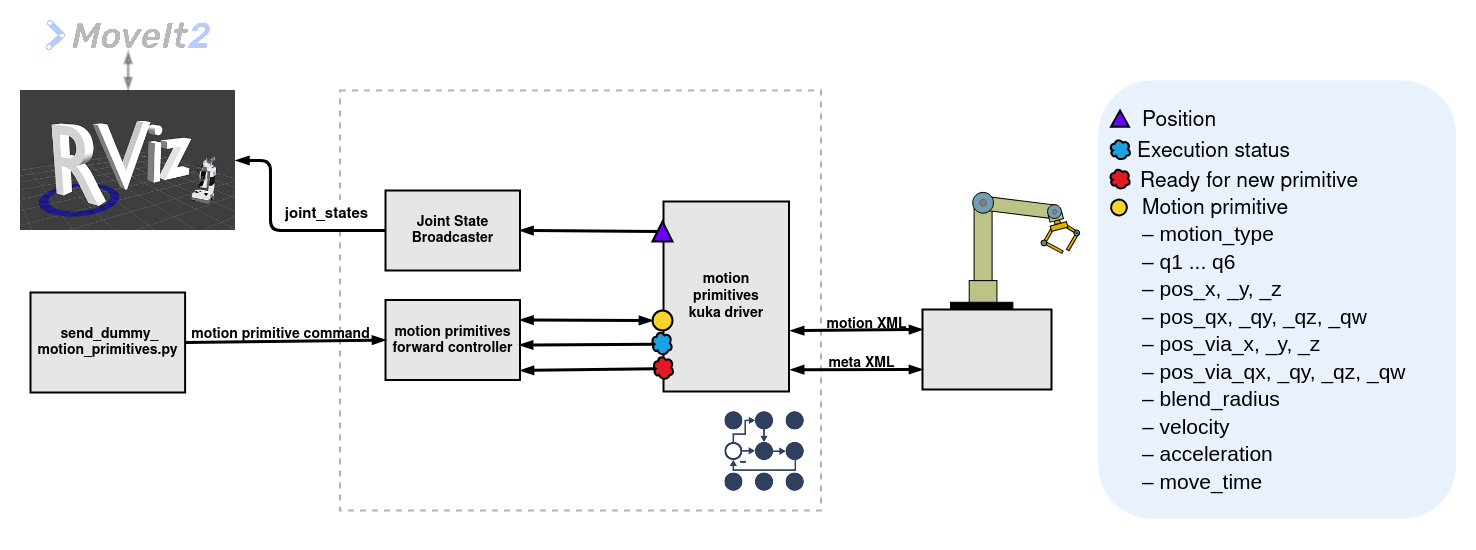
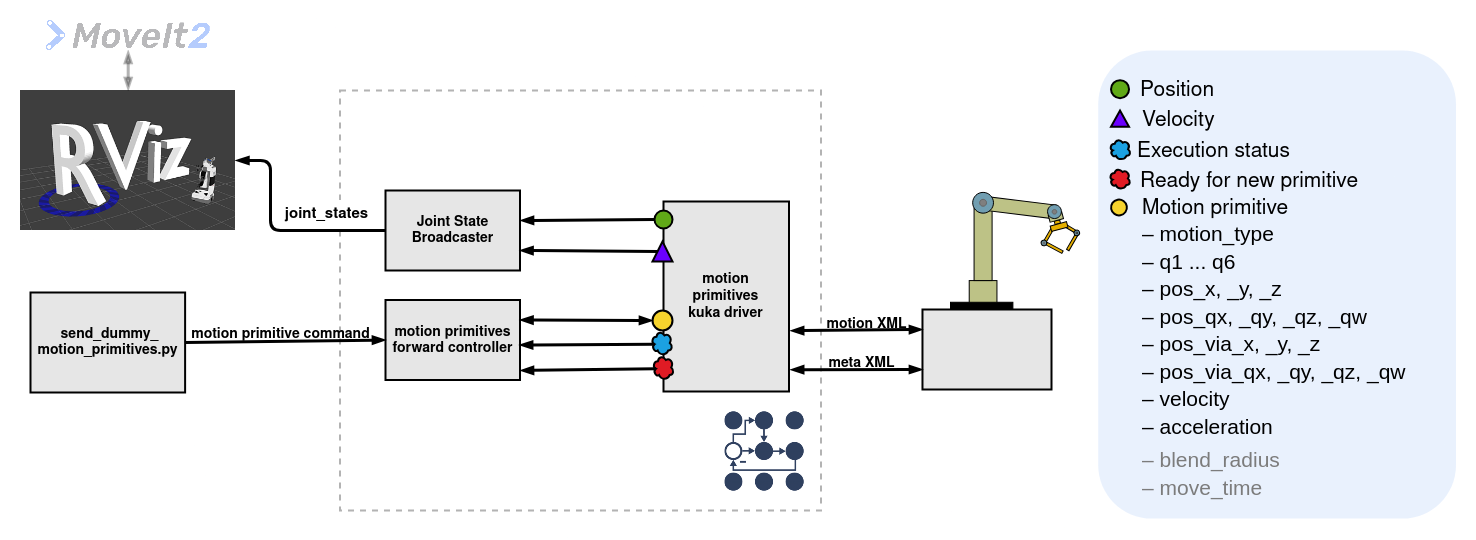
Added documentation to readme and added tutorial on how to setup the kuka robot

diff --git a/kuka_ros2_control_support/launch/motion_primitives_bringup.launch.py b/kuka_ros2_control_support/launch/motion_primitives_bringup.launch.py
@@ -29,6 +29,9 @@
 #  LIABILITY, OR TORT (INCLUDING NEGLIGENCE OR OTHERWISE) ARISING IN
 #  ANY WAY OUT OF THE USE OF THIS SOFTWARE, EVEN IF ADVISED OF THE
 #  POSSIBILITY OF SUCH DAMAGE.
+#
+# 2025 Modifications for motion primitives driver and controller launch
+# - Mathias Fuhrer
 
 from launch import LaunchDescription
 from launch.actions import DeclareLaunchArgument, ExecuteProcess

diff --git a/kuka_eki_motion_primitives_hw_interface/README.md b/kuka_eki_motion_primitives_hw_interface/README.md
@@ -1,34 +1,112 @@
 kuka_eki_motion_primitives_hw_interface
 ==========================================
 
-Driver package to control kuka robot using motion primitives like PTP, LIN and CIRC
+Hardware interface for executing motion primitives on a KUKA robot using the ROS 2 control framework. It allows the controller to execute linear (LINEAR_CARTESIAN/ LIN/ MOVEL), circular (CIRCULAR_CARTESIAN/ CIRC/ MOVEC) and joint-based (LINEAR_JOINT/ PTP/ MOVEJ) motion commands.
 
-![Licence](https://img.shields.io/badge/License-BSD-3-Clause-blue.svg)
+[![Licence](https://img.shields.io/badge/License-Apache-2.0-blue.svg)](https://opensource.org/licenses/Apache-2.0)
 
-# Documentation
-## ROS2 Implementation
-TODO(mathias31415) explain how the ros2 implementation works
-![img](doc/ros2_control_motion_primitives_kuka.drawio.png)
+# Demo Video
+[![Play Video](TODO preview img)](TODO video link)
 
-## KRL Implementation
-TODO(mathias31415) explain how the krl implementation works
+# Related packages/ repos
+- [industrial_robot_motion_interfaces (with additional helper types for stop and motion sequence)](https://github.com/StoglRobotics-forks/industrial_robot_motion_interfaces/tree/helper-types)
+- [ros2_controllers with motion_primitives_forward_controller](https://github.com/StoglRobotics-forks/ros2_controllers/tree/motion_primitive_forward_controller/motion_primitives_forward_controller)
+- [kuka_experimental with motion_primitive_kuka_driver](https://github.com/StoglRobotics-forks/kuka_experimental/tree/hka_motion_primitive_kuka_driver)
 
-## KRL Files
-TODO(mathias31415) write instruction on how to place the KRL files in WorkVisual (Move the instruction to the krl folder)
 
-If [Multi Submitinterpreter](https://www.kuka.com/en-us/services/downloads?terms=Language%3Aen%3A1&q=MultiSubmit) is installed the line `DECL PRO_IO_T $PRO_I_O_PROC_ID3={MODULE[] "/R1/AIP_META_EKI()",COLD_BOOT_RUN #ON}` in `$custom.dat` can be modified like this. The `sps.sub` and `meta_eki.sub` will run in parrallel. Otherwise replacing `"/R1/SPS()"` with `"/R1/AIP_META_EKI()"` in line `DECL PRO_IO_T $PRO_I_O_SYS={MODULE[] "/R1/AIP_META_EKI()",COLD_BOOT_RUN #ON}` works just fine.
+# Architecture
 
-## EKI TCP connection
-To ensure the TCP connection is closed properly, the client needs to disconnect first [source](https://youtu.be/Ne13sBHPGv4?t=863), so the ROS2 side needs to be stopped first. When client disconnects, the `$flag[1]` and `$flag[2]` are set to false (defined in the xml files). This triggers the interrupt to call the reset_interface() and reset_meta_interface() functions. 
-```
-global interrupt decl 15 when $flag[1] == false do reset_interface()
-interrupt on 15
-```
-This ensures the client (ROS2) can reconnect to the server. During testing/ implementing of the KRL files its recommended to replace `reset_interface()` with `close_interface()` (in `eki.src` and `meta_eki.sub`) to close the connection propperly and dont reset it. This ensures that a new connection can be established after the program is stopped. (robot- and submit-interpreter needs to be restarted (deselect (abwählen) and then select (anwählen) again))
+![Architecture Overview](doc/ros2_control_motion_primitives_kuka.drawio.png)
 
-Before transfering a new Version of the KUKA project to the Robot via WorkVisual, stop the ROS2 side and deselect the robot- and submit-interpreter (therefore you need to be in expert mode). If this is not done, the Robotersteuerung needs to get restarted.
+# Command and State Interfaces
 
-TODO(mathias31415) insert images/ screenshots to better explain the stuff
+The `motion_primitives_kuka_driver` hardware interface defines a set of **command interfaces** and **state interfaces** used for communication between the controller and the robot hardware.
+
+## Command Interfaces
+
+These interfaces are used to send motion primitive data to the hardware interface:
+
+- `motion_type`: Type of motion primitive (e.g., LINEAR_JOINT, LINEAR_CARTESIAN, CIRCULAR_CARTESIAN, etc.)
+- `q1` – `q6`: Target joint positions for joint-based motion
+- `pos_x`, `pos_y`, `pos_z`: Target cartesian position
+- `pos_qx`, `pos_qy`, `pos_qz`, `pos_qw`: Orientation quaternion of the target pose
+- `pos_via_x`, `pos_via_y`, `pos_via_z`: Intermediate via-point position for circular motion
+- `pos_via_qx`, `pos_via_qy`, `pos_via_qz`, `pos_via_qw`: Orientation quaternion of via-point
+- `velocity`: Desired motion velocity. For joint-based motions (PTP), it is a scaling factor (0 to 1) of the maximum joint velocity, and for cartesian motions (LIN, CIRC), it specifies the end-effector velocity in m/s.
+- `acceleration`: Desired motion acceleration. For joint-based motions (PTP), it is a scaling factor (0 to 1) of the maximum joint acceleration, and for cartesian motions (LIN, CIRC), it specifies the end-effector acceleration in m/s².
+- `blend_radius`: Blending radius for smooth transitions (currently not used by the **motion_primitive_kuka_driver**, but [**motion_primitive_kuka_driver**](https://github.com/StoglRobotics-forks/Universal_Robots_ROS2_Driver_MotionPrimitive/blob/main/ur_robot_driver/src/motion_primitives_ur_driver.cpp) uses it)
+- `move_time`: Optional duration for time-based execution (currently not used by the **motion_primitive_kuka_driver**, but [**motion_primitive_kuka_driver**](https://github.com/StoglRobotics-forks/Universal_Robots_ROS2_Driver_MotionPrimitive/blob/main/ur_robot_driver/src/motion_primitives_ur_driver.cpp) uses it)
+
+## State Interfaces
+
+These interfaces are used to communicate the internal status of the hardware interface back to the controller:
+- `joint positions`: Used by the `joint_state_broadcaster` and allows tools like RViz to visualize the current robot state.
+- `joint velocitys`
+- `execution_status`: Indicates the current execution state of the primitive. Possible values are:
+  - `IDLE`: No motion in progress
+  - `EXECUTING`: Currently executing a primitive
+  - `ERROR`: An error occurred during execution
+  - `STOPPED`: The robot was stopped using the `STOP_MOTION` command and must be reset with the `RESET_STOP` command before executing new commands.
+- `ready_for_new_primitive`: Boolean flag indicating whether the interface is ready to receive a new motion primitive
+
+# Supported Motion Primitives
+
+- Support for basic motion primitives:
+  - `LINEAR_JOINT`
+  - `LINEAR_CARTESIAN`
+  - `CIRCULAR_CARTESIAN`
+- Additional helper types:
+  - `STOP_MOTION`: Immediately stops the current robot motion and clears all pending primitives in the controller's queue.
+  - `RESET_STOP`: After `RESET_STOP`, new commands can get handled.
+  - `MOTION_SEQUENCE_START` / `MOTION_SEQUENCE_END`: Define a motion sequence block. All primitives between these two markers will be sent to the robot in a single XML message, rather than as individual messages.
+
+![MotionPrimitiveExecutionWithHelperTypes](doc/MotionPrimitiveExecutionWithHelperTypes_KUKA.drawio.png)
+
+# Implementation
+
+In contrast to the "standard" hardware interface, this driver does not compute or execute trajectories on the ROS 2 side. Instead, it passes high-level motion primitives directly to the robot controller, which then computes and executes the trajectory internally.
+
+This approach offers two key advantages:
+
+- **Reduced real-time requirements** on the ROS 2 side, since trajectory planning and execution are offloaded to the robot.
+- **Improved motion quality**, as the robot controller has better knowledge of the robot's kinematics and dynamics, leading to more optimized and accurate motion execution.
+
+## Communication Between Hardware Interface and Robot
+
+The communication between the hardware interface and the robot is managed via two [Ethernet KRL Interfaces (EKI)](https://my.kuka.com/s/product/kukaethernet-krl-40/01t1i0000049YnEAAU?language=en_US&tab=Functions).  
+
+- **Motion EKI**: Transfers motion primitives and returns state information (e.g., joint positions, velocities, etc.).  
+- **Meta EKI**: Handles the transmission of `STOP_MOTION` and `RESET_STOP` commands.  
+
+Message exchange over EKI is conducted using XML messages.
+
+![Meta and motion eki](doc/ros2_control_motion_primitives_kuka_krl.drawio.png)
+
+## Sending Commands to the Robot
+
+The `write()` method checks whether a new motion primitive command has been received from the controller via the command interfaces. If a new command is present:
+
+1. **Meta Commands (`STOP_MOTION`, `RESET_STOP`)**  
+   - If the command is `STOP_MOTION`, it is sent directly to the robot controller via the Meta EKI connection. This sets a flag in the `meta_eki.sub` program on the robot.  
+   - This flag triggers an interrupt in the `motion_eki.src` program, which immediately stops the current motion execution and discards all further motion commands.  
+   - If a `RESET_STOP` command is received, the flag is reset, allowing new motion primitives to be received and executed.
+
+2. **Motion Commands (`LINEAR_JOINT`, `LINEAR_CARTESIAN`, `CIRCULAR_CARTESIAN`, `MOTION_SEQUENCE_START`, `MOTION_SEQUENCE_END`)**  
+   - For regular motion commands like `LINEAR_JOINT`, `LINEAR_CARTESIAN`, and `CIRCULAR_CARTESIAN`, a corresponding `MoveCommand` is created and sent to the robot via the Motion EKI connection.  
+   - If a `MOTION_SEQUENCE_START` command is received, all subsequent primitives are collected into a motion sequence.  
+   - When the `MOTION_SEQUENCE_END` command is received, the entire sequence is transmitted to the robot as a single XML message.  
+   - The actual sending of these commands to the robot is handled in a separate thread, ensuring the main program remains non-blocking.
+
+## Reading states of the robot and sending status informations to the controller
+
+The `read()` method:
+- Retrieves the joint positions and velocities of the robot and publishes them via the corresponding state interfaces. These can then be read by the joint_state_broadcaster, allowing tools like RViz to visualize the current robot state.
+- Publishes the `execution_status` over a state interface with possible values: `IDLE`, `EXECUTING`, `ERROR`, `STOPPED`.
+- Publishes `ready_for_new_primitive` over a state interface to signal whether the interface is ready to receive a new primitive.
+
+## KUKA KRL implementation
+Instructions for the KRL implementation and how to deploy it on the robot controller are documented in the [README in the KRL folder](krl/README.md).
+
 
 # Usage notes:
 ## With "simulation"
@@ -49,6 +127,9 @@ ros2 run kuka_eki_simulator kuka_eki_simulator_tcp
 ros2 launch kuka_ros2_control_support motion_primitives_bringup.launch.py description_package:=kuka_kr3_support description_macro_file:=kr3r540_macro.xacro
 ```
 ## With ready2educate H-KA cell 2 (adjust robot_ip for other cells)
+> [!NOTE]   
+> Make sure to follow the instructions in the [README file in the KRL folder](krl/README.md) to setup the robot before launching the hardware interface.
+
 **Launch kr3 with motion primitive driver**
 ```
 ros2 launch kuka_ros2_control_support motion_primitives_bringup.launch.py description_package:=kuka_kr3_support description_macro_file:=kr3r540_macro.xacro eki_robot_ip:=10.181.116.51
@@ -58,19 +139,17 @@ ros2 launch kuka_ros2_control_support motion_primitives_bringup.launch.py descri
 ```
 ros2 run kuka_eki_motion_primitives_hw_interface send_dummy_motion_primitives.py
 ```
-**Stop command in terminal**
+**`STOP_MOVEMENT` command in terminal**
 ```
 ros2 topic pub /motion_primitive_controller/reference industrial_robot_motion_interfaces/msg/MotionPrimitive "{type: 66, blend_radius: 0.0, additional_arguments: [], poses: [], joint_positions: []}" --once
 ```
-**Reset stop command in terminal**
+**`RESET_STOP` command in terminal**
 ```
 ros2 topic pub /motion_primitive_controller/reference industrial_robot_motion_interfaces/msg/MotionPrimitive "{type: 67, blend_radius: 0.0, additional_arguments: [], poses: [], joint_positions: []}" --once
 ```
 
 
-
 # TODOs
-- Blending between two motionprimitives not working yet
-- execute eki_close("NAME") when programm is stopped to properly close the connection --> without eki_close() its not possible to init a new server when restarting the program. 
-- handle additional paramters like velocity and acceleration
-- how to check if motion execution ends with success?
+- Blending between motion primitives not working yet
+- Check if motion execution ends with success
+- Execute eki_close() when programm is stopped/ deselected to properly close the connection --> without eki_close() its not possible to init a new server when restarting the program. 

diff --git a/kuka_eki_motion_primitives_hw_interface/krl/README.md b/kuka_eki_motion_primitives_hw_interface/krl/README.md
@@ -1,1 +1,115 @@
-Copy the files to the kuka ws according to this tutorial: https://github.com/IRAS-HKA/r2e_tutorial/blob/cell_setup/README.md
+# Tutorial to setup KUKA robot for motion_primitives_kuka_driver
+
+> [!NOTE]  
+> This is a modified version of the [ready2educate cell tutorial](https://github.com/IRAS-HKA/r2e_tutorial/blob/cell_setup/README.md) by Gergely Soti.
+
+> [!NOTE]   
+> This tutorial is based on the [ready2educate cell](https://www.kuka.com/en-us/products/robotics-systems/kuka-ready2_use/kuka-ready2_educate) with a [KR3 R540 robot](https://my.kuka.com/s/product/kr-3-r540/01t58000002hniqAAA?language=en_US&tab=Overview) at the [H-KA Robot-Lab](https://www.h-ka.de/iaf/ausstattung/fakultaetsuebergreifendes-industrie-roboter-labor-fuer-die-lehre)  but can also be adapted to other robot setups.
+
+> [!NOTE]   
+> The KRL files originate from a previous implementation by the Karlsruhe University of Applied Sciences (H-KA) and have been adapted here for the motion_primitives_kuka_driver. The included gripper control implementation was not used in this context and, therefore, has not been tested. However, these parts of the code have been retained for potential future developments.
+
+## First Time Setup - Robot
+1. Boot up the robot
+2. Boot up the Windows PC and log in with your RZ account
+3. Download KRL sources from the `krl_sources` directory
+4. Change IP in [`motion_eki.xml`](motion_eki.xml) and [`meta_eki.xml`](meta_eki.xml) to match the robot controller's IP (should be found on the robot cell somewhere)
+5. Create new project on KUKA smartPAD (teach pendant) with KUKA smartHMI (touch screen user interface)
+    - Open main menu (key with small robot in the bottom right on smartPAD or top left in smartHMI) &rarr; _Öffnen_
+    - _Konfiguration_ &rarr; _Benutzergruppe_ &rarr; _Administrator_ (pass: kuka)
+    - Open project management window (blue WorkVisual icon - gear with robot in it - on smartHMI)
+        - "Ready2Educate" is the active project:
+            - _Aktuellen Zustand sichern_
+            - Name: "ros2_driver" &rarr; _OK_
+            - select "ros2_driver" in _Verfügbare Projekte_ &rarr; _Entpinnen_
+            - _Aktivieren_
+        - "Ready2Educate" is not the active project:
+            - Pin "Ready2Educate"
+            - _Aktivieren_ &rarr; type in new project name, e.g. "ros2_driver" &rarr; confirm with _OK_
+    - Confirm _Wollen Sie die Aktivierung des Projektes "ros2_driver" zulassen?_ with _Ja_
+    - Confirm _Projektverwaltung_ panel _Wollen Sie fortfahren?_ with _Ja_
+    - Wait until project is activated
+6. Insert KRL sources in new project
+    - On Windows PC open WorkVisual
+    - Load newly created project "ros2_driver" from robot cell
+        - _Datei_ &rarr; _Projekt öffnen_ &rarr; _Suchen_
+        - Select cell with the corresponding IP
+        - Select project "ros2_driver"
+        - _Öffnen_
+    - Navigate to "Dateien" tab in the left panel
+    - Copy the files [`motion_eki.xml`](motion_eki.xml) and [`meta_eki.xml`](meta_eki.xml), modified in step 4, to `IRAS-IRL<X>-KRC/Config/User/Common/EthernetKRL`  
+
+      ![EKI Interface XMLs](doc/files_xml.png)
+
+    - Create new folder `IRAS-IRL<X>-KRC/KRC/R1/Program/ros2_driver`
+    - Copy [`motion_eki.dat`](motion_eki.dat), [`meta_eki.dat`](meta_eki.dat), [`motion_eki.src`](motion_eki.src) and [`meta_eki.sub`](meta_eki.sub) to `IRAS-IRL<X>-KRC/KRC/R1/Program/ros2_driver`  
+
+      ![KRL Program Files](doc/files_ros2_driver.png)
+
+    - Edit the `$custom.dat` file.
+
+        ![files_custom_dat](doc/files_custom_dat.png) 
+
+        If [Multi Submitinterpreter](https://www.kuka.com/en-us/services/downloads?terms=Language%3Aen%3A1&q=MultiSubmit) is installed the line `DECL PRO_IO_T $PRO_I_O_PROC_ID3={MODULE[] " ",COLD_BOOT_RUN #ON}` in `$custom.dat` can be modified to `DECL PRO_IO_T $PRO_I_O_PROC_ID3={MODULE[] "/R1/AIP_META_EKI()",COLD_BOOT_RUN #ON}`. The `sps.sub` and `meta_eki.sub` will run in parrallel. 
+
+        ![custom_dat_multisub](doc/custom_dat_multisub.png)
+
+        Otherwise replacing `"/R1/SPS()"` with `"/R1/AIP_META_EKI()"` in line `DECL PRO_IO_T $PRO_I_O_SYS={MODULE[] "/R1/SPS()",COLD_BOOT_RUN #ON}` works just fine.
+
+        ![custom_dat_singlesub](doc/custom_dat_singlesub.png)
+
+7. Install program
+    - Switch to user group _Administrator_ on smartPAD (see step 6)
+    - Click _Installieren_ button  
+
+      ![Install Button](doc/install_button.png)
+
+    - _Weiter_ &rarr; _Weiter_ &rarr; _Weiter_ &rarr; _Ja_ on smartPAD &rarr;
+      _Ja_ on smartPAD &rarr; _Fertigstellen_
+
+## Start Hardware Interface on Robot
+1. Switch to user group _Administrator_ on smartHMI
+2. Activate project "ros2_driver" on smartHMI (if not already active)
+    - Open project management window (blue WorkVisual icon (gear with robot in it) on smartHMI)
+    - Select "ros2_driver" in _Verfügbare Projekte_ &rarr; _Entpinnen_
+    - _Aktivieren_ &rarr; -> _Ja_
+    - Wait until project is activated
+3. On smartHMI navigate to  `R1/Program/ros2_driver`
+4. Select `motion_eki.src` &rarr; _Anwählen_
+5. Select operating mode, e.g. Aut
+    - Turn the switch on the smartPAD clockwise (keyswitch left to emergency stop button)
+    - Select the operating mode on the smartHMI
+    - Turn the switch back to the original position
+6. Start program
+    - Potentially change the robot's velocity (start symbol on top of hand symbol in the status bar at the top of the smartHMI) with the slider in the smartHMI or the +/- keys on the smartPAD (penultimate buttons on the right side)
+    - Press start key (green play button) on the left side of the smartPAD multiple times, until the robot interpreter status indicator turns gre (the area around the "R" in the status bar at the top of the smartHMI)
+        - You potentially need to "Quitt" the robot by pressing the "Quitt" button on the robot cell
+        - You need to activate the robot's drives if they are not active (grey "O" next to the "R" in the status bar at the top of the smartHMI)
+            - click on the "O" in the status bar
+            - click in "I" in the menu that pops up
+    - If T1 or T2 operating mode is selected instead of Aut, one of the enabling switches on the rear of the smartPAD has to be held in center position and the start key has to be held constantly to continue running the program
+
+## Start ROS2 side on Ubuntu PC
+
+- Connect the Ubuntu PC to the robot's network cable
+- Manually assign the appropriate IP address in the network settings
+
+![IP-Adress](TODO)
+
+- Start the Docker container if necessary
+- Then, the motion_primitive_kuka_driver can be launched as described in the [main README](../README.md).
+
+
+## EKI TCP connection
+To ensure the TCP connection is closed properly, the client needs to disconnect first, so the ROS2 side needs to be stopped first. When client disconnects, the `$flag[1]` and `$flag[2]` are set to false (defined in the xml files). This triggers the interrupt to call the reset_interface() and reset_meta_interface() functions. 
+```
+global interrupt decl 15 when $flag[1] == false do reset_interface()
+interrupt on 15
+```
+This ensures the client (ROS2) can reconnect to the server. During testing/ implementing of the KRL files it's recommended to replace `reset_interface()` with `close_interface()` (in [`motion_eki.src`](motion_eki.src) and [`meta_eki.sub`](meta_eki.sub)) to close the connection propperly and don't reset it. This ensures that a new connection can be established after the program is restarted. (robot- and submit-interpreter needs to be restarted (deselect (abwählen) and then select (anwählen) again))
+
+![Submit interpreter](TODO)
+
+![Robot interpreter](TODO)
+
+Before transfering a new Version of the KUKA project to the Robot via WorkVisual, stop the ROS2 side and deselect the robot- and submit-interpreter (therefore you need to be in expert mode). If this is not done, the Robotersteuerung needs to get restarted.